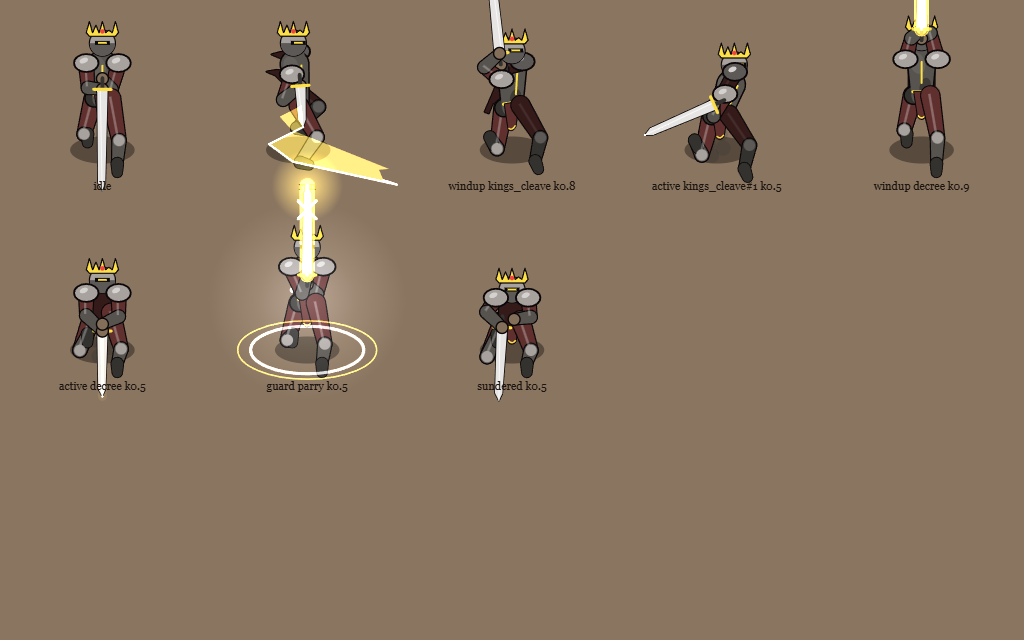
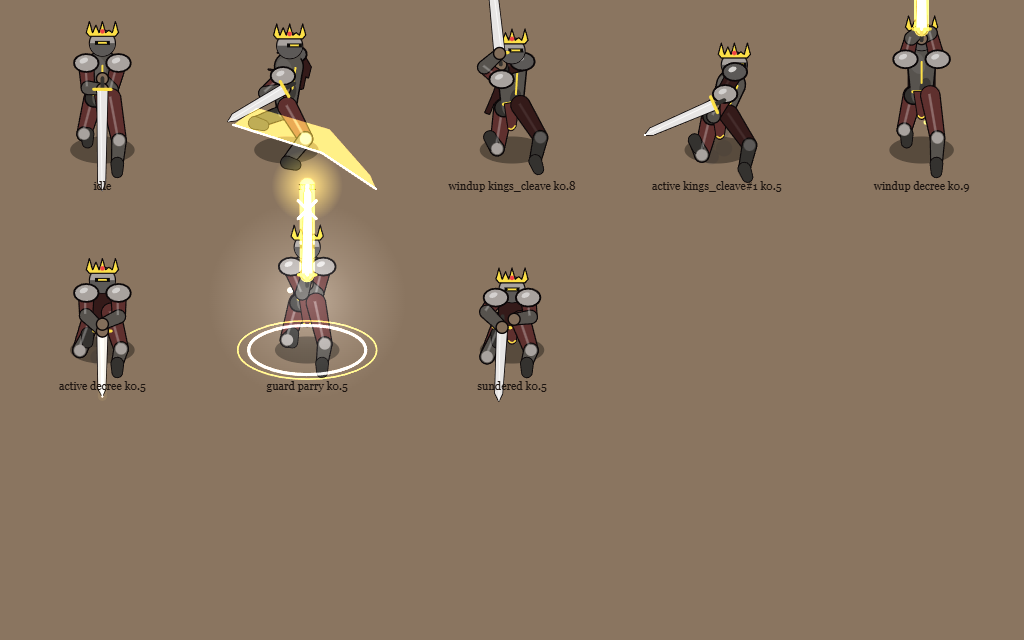
The Sundered Crown, Wave B3: skeletal boss rigs, crown arenas, mobs, cosmetics and 3D cutscenes
Procedural rigs for all 8 crown bosses/minis (js/boss-rigs.js): spring-driven pose channels, 2-bone IK, velocity-driven foot planting, verlet capes/hair/tails, blade trails, pooled particles, LOD tiers. Crown arenas, telegraphs and Crown Art VFX in bosses.js; 13 enemy models, 4 themes and 12 props in mobs.js; 4 hats + sundered_halo in graphics.js; 3D builders, entrances and the King's colossus in dungeon3d.js. Globals match B2's call sites. CROWN_PENDING removed from arcane-art.test.js; new boss-rigs.test.js; review fixture docs/sundered-crown/boss-review.html + shots.

diff --git a/js/boss-rigs.js b/js/boss-rigs.js
@@ -161,38 +161,27 @@
   }
   function liveParticles() { let n = 0; for (let i = 0; i < PN; i++) if (P.life[i] > 0) n++; return n; }
 
-  // =================================================================== SPRITES
-  // Glows are baked once (no per-frame gradients, no shadowBlur) into ONE
-  // 512x512 atlas of 64 px cells. Measured in Chrome: twelve drawImage calls
-  // from separate 64 px canvases cost 2.7 ms of GPU time per frame (small
-  // canvases stay in software and are re-uploaded every draw); from one large
-  // atlas the same twelve cost 0.11 ms. Headless: no atlas, a cheap disc instead.
-  const _sprites = {};
-  let _atlas = null, _atlasN = 0;
+  // =================================================================== GLOWS
+  // Measured in Chrome (docs/sundered-crown/boss-review.html, 12 glows / frame,
+  // GPU flush included): a radial gradient per glow 0.24 ms; drawImage from
+  // pre-baked 64 px sprite canvases 2.7 ms; from a 512 px atlas 8.9-13 ms
+  // (the sprite paths fall off Chrome's accelerated path). So a glow is a
+  // gradient per call; its colour-stop strings are cached per colour so the
+  // only per-frame object is the CanvasGradient itself. No shadowBlur anywhere.
+  const _stops = {};
   function glowSprite(rgb, soft) {
     const key = rgb + (soft ? "s" : "");
-    if (key in _sprites) return _sprites[key];
-    let cell = -1;
-    if (hasDoc() && _atlasN < 64) try {
-      if (!_atlas) { const c = document.createElement("canvas"); c.width = c.height = 512; const g = c.getContext && c.getContext("2d"); _atlas = g && g.createRadialGradient ? { c, g } : false; }
-      if (_atlas) {
-        cell = _atlasN++;
-        const g = _atlas.g, ox = (cell % 8) * 64 + 32, oy = Math.floor(cell / 8) * 64 + 32;
-        const gr = g.createRadialGradient(ox, oy, 0, ox, oy, 31);
-        gr.addColorStop(0, `rgba(${rgb},${soft ? 0.55 : 1})`); gr.addColorStop(soft ? 0.5 : 0.25, `rgba(${rgb},${soft ? 0.22 : 0.45})`); gr.addColorStop(1, `rgba(${rgb},0)`);
-        g.fillStyle = gr; g.fillRect(ox - 32, oy - 32, 64, 64);
-      }
-    } catch (e) { cell = -1; }
-    _sprites[key] = cell;
-    return cell;
+    let st = _stops[key];
+    if (!st) st = _stops[key] = [`rgba(${rgb},${soft ? 0.55 : 1})`, soft ? 0.5 : 0.25, `rgba(${rgb},${soft ? 0.22 : 0.45})`, `rgba(${rgb},0)`];
+    return st;
   }
-  // draw a baked glow (additive or not is the caller's composite)
   function glow(ctx, x, y, r, rgb, a, soft) {
     if (r <= 0 || a <= 0) return;
-    const cell = glowSprite(rgb, soft), ga = ctx.globalAlpha;
+    const st = glowSprite(rgb, soft), ga = ctx.globalAlpha;
     ctx.globalAlpha = ga * clamp01(a);
-    if (cell >= 0) ctx.drawImage(_atlas.c, (cell % 8) * 64, Math.floor(cell / 8) * 64, 64, 64, x - r, y - r, r * 2, r * 2);
-    else { ctx.fillStyle = `rgb(${rgb})`; ctx.globalAlpha = ga * clamp01(a) * 0.3; ctx.beginPath(); ctx.arc(x, y, r * 0.6, 0, TAU); ctx.fill(); }
+    const g = ctx.createRadialGradient(x, y, 0, x, y, r);
+    g.addColorStop(0, st[0]); g.addColorStop(st[1], st[2]); g.addColorStop(1, st[3]);
+    ctx.fillStyle = g; ctx.beginPath(); ctx.arc(x, y, r, 0, TAU); ctx.fill();
     ctx.globalAlpha = ga;
   }
   function hexRgb(hex) {
@@ -482,7 +471,11 @@
         a.lastPhi[i] = phi;
         if (F[o + 7]) {
           const left = Math.max(0, F[o + 5] + F[o + 6] - t) / 1000, lead = left + (1 - sf) * (cyc / sp) * 0.5;
-          tx += a.vx * lead; ty += a.vy * lead;
+          // predicted landing, clamped to half a cycle: a lunge that reverses the velocity
+          // must not fling the swinging foot across the room
+          let ox = a.vx * lead, oy = a.vy * lead; const ol = Math.hypot(ox, oy), om = cyc * 0.5;
+          if (ol > om) { ox *= om / ol; oy *= om / ol; }
+          tx += ox; ty += oy;
         }
       } else {
         a.lastPhi[i] = 1;
@@ -548,7 +541,7 @@
     a.spinT = 0;
     rig.pose(a, st, a.k, step, t);
     // lunges / dashes are faster than any stride: the legs hold a lunge shape instead
-    if ((step && step.move === "dash" && rig.kind !== "beast") || a.speed > (rig.kind === "beast" ? 1500 : 620)) a.footMode = 1;
+    if ((step && rig.kind !== "beast" && (step.move === "dash" || (step.e === "snap" && Math.abs(step.x1 - step.x0) + Math.abs(step.y1 - step.y0) > 24))) || a.speed > (rig.kind === "beast" ? 1500 : 620)) a.footMode = 1;
     // a spin (spear sweep) is rate-limited and unwinds the short way
     if (a.spinT === 0 && Math.abs(a.spin) > PI) a.spin -= Math.sign(a.spin) * TAU;
     a.spin += clamp(a.spinT - a.spin, -19 * dt, 19 * dt);

diff --git a/docs/sundered-crown/MASTER-PLAN.md b/docs/sundered-crown/MASTER-PLAN.md
@@ -680,3 +680,42 @@ into `bossProcs` unchanged — every legacy suite result is identical to the bas
 - `net.js` untouched; `window.netArts` comes from the lead's branch.
 
 **Tests run (this tree):** `node js/crown-client.test.js` 139/139; every `js/*.test.js` green (see the commit).
+
+
+---
+
+## B3 — done (boss & mob art / animation, 2026-09-26)
+
+**New files**
+- `js/boss-rigs.js` → `window.BossRigs`: the procedural skeletal rigs. Every Crown boss/mini is a small 3D skeleton (humanoid: 25 joints; Gorehorn: 27; the colossus: 2 long arm chains) projected onto the arena with a fixed oblique camera (`screen = (x, y' − z)`, body depth squashed ×0.72 round the root, planted feet in true arena coords so they never slide). Per body an `Anim` holds 34 pose channels driven by **damped springs** whose stiffness depends on the state (tight + slightly under-damped on `active` = snap with overshoot; loose + under-damped on `recover` = follow-through that settles; per-channel velocity caps so a 4.5 rad sword arc spreads over ~150 ms instead of popping) — consecutive steps, interrupts and phase changes are C1-continuous by construction. Profiles write target poses per state × atk type × hit index × k: two-stage anticipation on every windup (draw-back 0–45 %, then a trembling hold), snap strikes along hand orbits, follow-through, stagger/stun, exhausted (sword planted, breathing), vanish/emerge, death (knees → floor → fade). **2-bone IK** for legs (pole = forward) and arms (elbows back/out), two-handed grip blending, **foot planting** driven by the actual interpolated velocity (run / strafe / backpedal / turn-in-place shuffles; stride & cadence from speed; lunges switch to a held lunge shape), **verlet chains** (capes, Kael's hair, the assassin's veil, Gorehorn's tail; kinematic on LOD ≥ 1), **blade trails** (12-sample ribbon, additive, 180 ms, crimson in the crimson stance), **pooled particles** (one SoA pool, per-kind rings: dust 48, sparks 64, debris 24, glow 32, leaves 20, shards 20, smoke 24), hit-flash (white palette swap + 45 ms hit-stop + 1.5 px shake), afterimage clones (0.45 alpha, flat ghost palette, chromatic ±3 px passes at LOD 0, **no shadow** — the real body has one), the unmissable parry (silver floor ring, light column, crossed-blade sigil, blazing blade), vulnerable rings (`vuln > 1`), stun stars, polarity auras (Sol warm bloom + sunburst, Umbra dark cutout + wisps, veiled hex shell, 1.5 s swap-warning pulse, swap beam, revive light + countdown ring), the colossus (translucent spectral king on the back wall, arms as chains to the slam point, resting hand glow, kneel), crown dome + faceted orbiting crown shards with trails, Gorehorn pillars (2 → cracked → rubble, debris on every hit, rise on regrow, re-drawn over the beast when it stands behind one), Briar patches that rustle where she travels, Thousand Cuts lines (telegraph → slash + a flicker of Kael), and all 10 **Crown Arts** effects. LOD tiers from a rolling 2 s frame time (> 18 ms down, < 13 ms for 5 s up; `prefers-reduced-motion` ⇒ ≥ tier 1): tier 1 halves trails/particles and stops cloth sim, tier 2 drops clone trails/chromatic passes and outlines.
+- `js/boss-rigs.test.js`: every rig × every state (+ `fallen`) × 24 atk types × k∈{0,.25,.5,.75,1} finite (30 800 poses); **no-pops**: 8 bosses driven 30 s at 60 fps by the real `CROWN.planBoss` (+ riposte interrupts + a phase change) — max per-frame joint displacement relative to the root 38–59 px (bound 64; a sword tip at full swing is ~40–55); every auto path / telegraph / cut / art draw NaN-free; LOD 2 draws ≈ half the canvas calls of LOD 0; dust pool capped; per-frame buffers reused.
+- `docs/sundered-crown/boss-review.html`: the review fixture. Runs the **real planner** against simulated players and feeds the renderer exactly like the game. `#id=<boss>&phase=n&stress=1&zoom=2.2&speed=0.25&q=0|1|2`, `#mode=stills&id=<boss>` (pose sheets), `#mode=bench` (timings), `#…&cine=entrance|phase2|victory&freeze=<ms×1000>` (3D cutscenes). Screenshots: `docs/sundered-crown/shots/*.png` (8 pose sheets, 8 fights, 3 cutscenes).
+
+**Changed**
+- `js/bosses.js`: crown bosses in the renderer registry; `drawBoss` on a mobile boss → `BossRigs.drawAuto` (reads `motion`/`clones`/pillars/shards/polarity itself — B2 does not use it, the fixture and any legacy caller do); new shapes `entangle` / `crescent` (honours `ang`) / `eclipse` + all 22 body-move types in `drawsAttack`; the 4 arenas (Thornwild warren with trampled ring + hedge, Ashen Colosseum with stands/crowd/braziers, Mirror Court with mirror gallery + checker marble, Sundered Throne with dais/broken throne/light shafts), static layers cached; `flashPart` also flashes the rigs.
+- `js/dungeon3d.js`: builders for all 8 (shared jointed humanoid kit; Gorehorn quadruped; the Twins as one rig with sun/moon; the King with a hidden spectral colossus), `awakeCrown` entrances (rise + draw, eyes, shockwave), `posePhaseKing` (the knight kneels, the colossus climbs out of the floor through the throne room's broken roof), minis via `miniPose`, deaths via `deathPose`; 4 chamber looks + light decor.
[1 lines of base64/hex data omitted]
+- `js/graphics.js`: hats `briar_crown_hat`, `laurel_of_the_pit`, `mirror_masque_hat`, `sundered_circlet_hat`; aura `sundered_halo`. (There is no 3D cosmetic path in the game today: the cutscene party has no hats.)
+- `js/arcane-art.test.js`: **`CROWN_PENDING` deleted**; crown bosses join `NEW_BOSSES` (bespoke renderer + ≥ 12-mesh 3D model); every crown move/cast `drawsAttack`; `CROWN_THEMED`; the crown arenas; a section that calls the globals **exactly as `js/crown-boss.js` / `js/crown-arts.js` do**. The mock 2D context now starts with a real context's defaults (`globalAlpha: 1`).
+- `index.html`: `js/boss-rigs.js` before `bosses.js`; B3 files at `?v=crown-b3`.
+
+**Globals (all guarded on both sides; return true = drawn)**
+- `gameBosses.drawMobileBoss(ctx, view, pose, t)` — B2's pose `{x, y, f, s, k, step, body, clone(bool), flash, exposed, form, sundered, …}`; `view` null → false. `flash` triggers the hit flash + hit-stop on its rising edge; `exposed` drives the twin auras; `form`/`sundered` the King.
+- `gameBosses.drawCrownAttack(ctx, atk, t, step?)` — uses `atk.k` / `atk.now` when present; returns **false for `phase:'guard'`** (the body draws the guard; B2 may add its banner).
+- `gameBosses.drawPillar(ctx, p, t, bossId)`, `gameBosses.drawCrownShard(ctx, shard, t)` (shard at `shard.pos`), `gameBosses.drawArt(ctx, fx, t)` (uses `fx.t0/dur/x1/y1`).
+- Also: `rigFor(id)`, `isMobileBoss(id)`, `setClockOffset(ms)` (auto path only), `hitMobile(id, body)`, `blockMobile(id)` (shield flash + sparks — B2 may call it on a `blocked` reply), `rigQuality()`; `window.BossRigs.quality()/setQuality(tier|null)`.
+
+**Performance** (fixture `#mode=bench`, desktop Chrome on this Windows box — not the Core Ultra 5; each simulated 60 fps frame ends with a 1 px `getImageData`, so "+gpu" = extra flush time vs the same frame without the boss):
+| scenario | rig JS avg / p99 | +GPU avg |
+|---|---|---|
+| Kael p3 (clones, cuts) STRESS, 4 players, LOD 0 / 1 / 2 | 0.12 / 0.50 ms · 0.12 · 0.10 | 0.98 · 0.76 · 0.69 ms |
+| King p3 crown, 8 shards STRESS, LOD 0 / 1 / 2 | 0.36 / 0.80 ms · 0.37 · 0.28 | 3.45 · 3.50 · 2.70 ms |
+| every other boss/phase, LOD 0 | 0.14–0.37 ms (p99 ≤ 1.7) | 0.45–2.35 ms |
+JS cost is far under the 1.5 ms rig budget everywhere. Glows: measured, a radial gradient per glow (colour stops cached) beats pre-baked sprites in Chrome (12 glows: gradient 0.24 ms, 64 px sprite canvases 2.7 ms, a 512 px atlas 8.9–13 ms — small/rewritten canvases fall off the accelerated path), so glows are gradients; no `shadowBlur` anywhere. The heaviest GPU item is the crown phase's dome + 8 gem glows (~3 ms); the Thornwild arena layer itself costs ~3 ms of flush on this machine (worth a look on the iGPU in Wave C).
+
+**Integration notes / flags**
+1. B2: nothing required. Optional: call `gameBosses.blockMobile(bossId)` on a `blocked:true` reply (shield flash). B2 draws its own guard-glow banner on the pre-guard windup; mine glows too (they layer fine).
+2. `js/firstperson.js` (no owner in this plan) places the 3D boss model statically at the head position; mobile bosses there do not move. Out of scope.
+3. The test `js/dragon-rig.test.js` / `boss-art.test.js` unchanged and green. Shared modules: no changes requested.
+
+**Tests (this tree, after merging `sundered-crown` incl. B1/B2/B4):** all 52 `js/*.test.js` exit 0 (arcane-art with `CROWN_PENDING` deleted, boss-rigs, crown-client 139/139, item-icons, globals…) + `node --test js/crown.test.js`. Server suites (node_modules junction): loot 8132/0, guild, gear, forge, raid, depths-server, authority, persistence, expedition, journey, presence, chest-timing, nexus-wardens pass; `dungeon.test.js` 218/3 — the same 3 pre-existing failures as the Wave A baseline.
